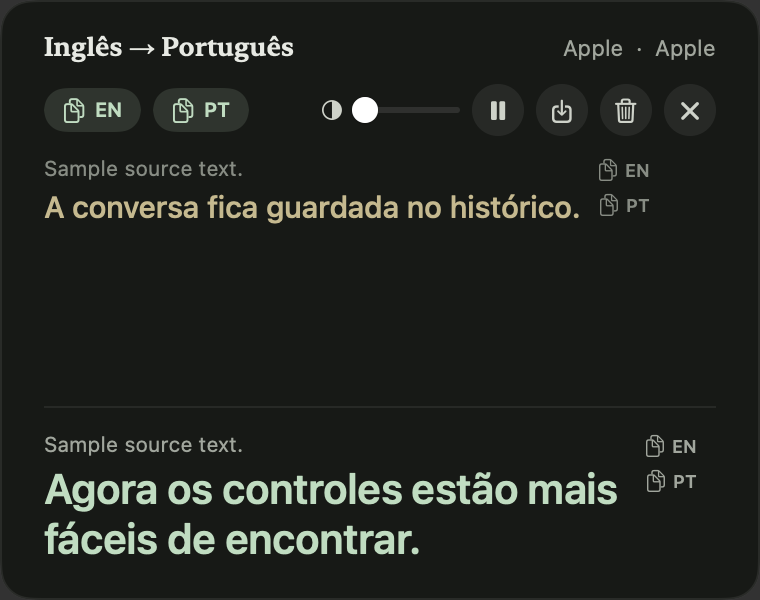
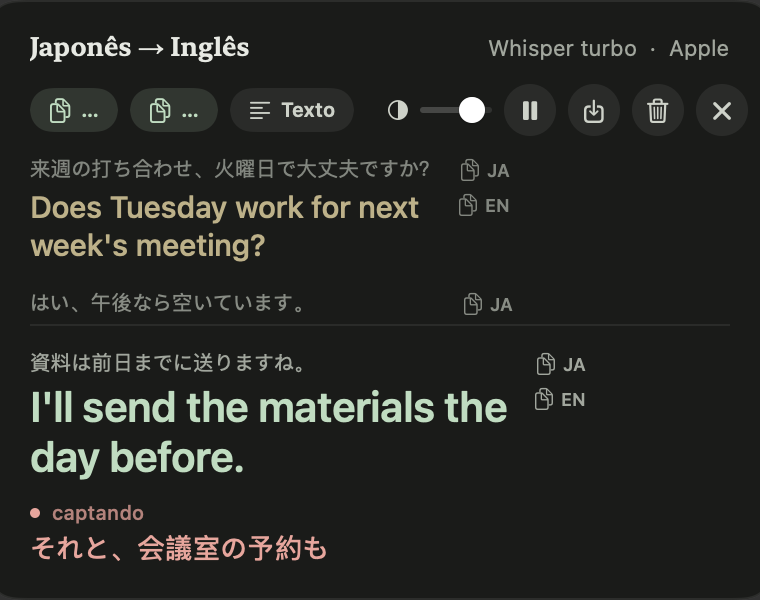
docs: README de divulgação, prints reais e skill do Claude Code
Prints saem do próprio app com conteúdo realista: painel ao vivo,
modo texto, menu e a janela de legendas num vídeo de demonstração
próprio (--segurar no autoteste da janela). Imagens novas: "Just the
words" e o diagrama com .txt.

A skill lingosync-transcrever-audio passa a morar no repositório,
achando o projeto pelo próprio caminho, com Whisper por padrão.

diff --git a/Sources/TradutorApp/LayoutPreview.swift b/Sources/TradutorApp/LayoutPreview.swift
@@ -9,6 +9,12 @@ enum LayoutPreview {
         let folder = URL(fileURLWithPath: "/tmp/tradutor-layout", isDirectory: true)
         try? FileManager.default.createDirectory(at: folder, withIntermediateDirectories: true)
         let pipeline = Pipeline()
+        // O motor de tradução do Pipeline é preferência gravada: a do
+        // usuário volta no fim, antes do `exit`.
+        let motorDoUsuario = pipeline.translationEngine
+        pipeline.translationEngine = .apple
+        pipeline.sourceLanguage = .japanese
+        pipeline.targetLanguage = .english
         let model = SubtitleStudioModel()
         model.sourceLanguage = .portuguese
         model.targetLanguage = .english
@@ -70,9 +76,15 @@ enum LayoutPreview {
                          "studio-expanded-\(dark ? "dark" : "light")",
                          width: 1080, height: 700, dark: dark)
         }
-        for text in ["A conversa fica guardada no histórico.", "Agora os controles estão mais fáceis de encontrar."] {
-            pipeline.subtitles.commit(SubtitleBlock(source: "Sample source text.", translated: text))
+        // Uma reunião de verdade, para o print servir de divulgação.
+        for (source, text) in [
+            ("来週の打ち合わせ、火曜日で大丈夫ですか？", "Does Tuesday work for next week's meeting?"),
+            ("はい、午後なら空いています。", "Yes, I'm free in the afternoon."),
+            ("資料は前日までに送りますね。", "I'll send the materials the day before."),
+        ] {
+            pipeline.subtitles.commit(SubtitleBlock(source: source, translated: text))
         }
+        pipeline.subtitles.setPartial("それと、会議室の予約も")
         // Preferências do painel num domínio à parte: teste não escreve no
         // do usuário.
         let painel = UserDefaults(suiteName: "tradutor-layout-preview")!
@@ -81,12 +93,27 @@ enum LayoutPreview {
             await render(OverlayView(pipeline: pipeline, onClose: {}).defaultAppStorage(painel),
                          "live-\(Int(width))", width: width, height: 300, dark: true)
         }
-        pipeline.subtitles.setPartial("e isto ainda está sendo captado")
+        // Texto corrido: um ditado em inglês, só transcrevendo, com uma
+        // pausa longa que abre parágrafo.
+        pipeline.translationEngine = .transcriptionOnly
+        pipeline.sourceLanguage = .english
+        pipeline.subtitles.clear()
+        let inicio = Date()
+        for (offset, text) in [
+            (0.0, "Okay, quick recap of today's call."),
+            (3.0, "We agreed to ship the beta on Friday."),
+            (7.0, "Marina will handle the release notes, and I'll update the onboarding screens."),
+            (25.0, "Next week we'll review the feedback from the first users."),
+        ] {
+            pipeline.subtitles.commit(SubtitleBlock(
+                source: text, translated: text, at: inicio.addingTimeInterval(offset)))
+        }
+        pipeline.subtitles.setPartial("and decide what goes into version two")
         painel.set(true, forKey: "painelEmTextoCorrido")
-        painel.set(0.5, forKey: "opacidadeDoFundoDoPainel")
         await render(OverlayView(pipeline: pipeline, onClose: {}).defaultAppStorage(painel),
                      "live-texto-620", width: 620, height: 300, dark: true)
         painel.removePersistentDomain(forName: "tradutor-layout-preview")
+        pipeline.translationEngine = motorDoUsuario
         model.stop()
         try? report.write(to: folder.appendingPathComponent("layout.txt"), atomically: true, encoding: .utf8)
         print(report)

diff --git a/Sources/TradutorApp/main.swift b/Sources/TradutorApp/main.swift
@@ -1177,6 +1177,23 @@ final class AppDelegate: NSObject, NSApplicationDelegate, NSWindowDelegate {
 
             write(String(format: "geracao em %.1fs", model.elapsed))
             write("legendas: \(model.cues.count)")
+
+            // `--segurar <s> [legenda]`: para a janela numa legenda logo
+            // depois da geração, para um print de fora (`screencapture -l`),
+            // que pega o quadro do vídeo — o `cacheDisplay` do fim do teste
+            // não desenha a camada do player, e lá a janela já passou por
+            // importações e regerações.
+            if let flag = CommandLine.arguments.firstIndex(of: "--segurar"),
+               CommandLine.arguments.count > flag + 1,
+               let segundos = Double(CommandLine.arguments[flag + 1]) {
+                let pedida = CommandLine.arguments.count > flag + 2
+                    ? Int(CommandLine.arguments[flag + 2]) : nil
+                model.jump(to: min(pedida ?? model.cues.count / 2, max(model.cues.count - 1, 0)))
+                if model.isPlaying { model.togglePlay() }
+                window.makeKeyAndOrderFront(nil)
+                write("segurando a janela \(window.windowNumber) por \(Int(segundos)) s")
+                try? await Task.sleep(for: .seconds(segundos))
+            }
             expect(!model.cues.isEmpty, "a geracao produz legendas")
             expect(viuEspera, "a interface anuncia a espera pela resposta do tradutor")
             expect(legendasNaEspera > 0,

diff --git a/README.md b/README.md
@@ -4,17 +4,22 @@
 
 # LingoSync
 
-**Real-time translation and subtitles for macOS. Private, on-device.**
+**Understand any conversation on your Mac — live, subtitled, or as plain text.**
 
-Captures the audio of any app or your microphone, transcribes it and translates
-it while people speak — no API key, no account, no cloud.
+LingoSync listens to any app or your microphone, transcribes what is said and
+translates it while people speak. It subtitles whole videos, and hands you the
+clean text of any recording. All on-device: no API key, no account, no cloud.
 
 ![macOS 15+](https://img.shields.io/badge/macOS-15%2B-000000?logo=apple&logoColor=white)
 ![Apple Silicon](https://img.shields.io/badge/Apple_Silicon-M1%E2%80%93M5-333333)
 ![Swift](https://img.shields.io/badge/Swift-6-F05138?logo=swift&logoColor=white)
 ![No paid API](https://img.shields.io/badge/no_paid_API-3E7A52)
+![Free](https://img.shields.io/badge/price-free-3E7A52)
 
-[**Download the latest release**](https://github.com/almeidasrenato/LingoSync/releases/latest)
+### [⬇ Download LingoSync for macOS](https://github.com/almeidasrenato/LingoSync/releases/latest)
+
+**Live translation** &nbsp;·&nbsp; **Subtitles for any video** &nbsp;·&nbsp;
+**Just the text** &nbsp;·&nbsp; **Private by design**
 
 </div>
 
@@ -25,70 +30,112 @@ it while people speak — no API key, no account, no cloud.
 
 ---
 
-## What it does
+## Made for
 
-### Listen and translate live &nbsp;·&nbsp; <kbd>⌥</kbd><kbd>⌘</kbd><kbd>T</kbd>
+- **Calls and meetings in another language** — a floating panel translates the
+  other side as they talk, over Zoom, Meet, Teams, a browser tab or any app.
+- **Watching videos, anime and lectures** — generate subtitles for a file you
+  already have, in your language, and watch them side by side.
+- **Getting the words out of audio** — voice memos, interviews, podcasts,
+  dictation: one click gives you clean, copyable text.
 
-<img src="docs/ao-vivo-estreito.png" width="330" align="right" alt="The live panel at its narrow width">
+## Listen and translate live &nbsp;·&nbsp; <kbd>⌥</kbd><kbd>⌘</kbd><kbd>T</kbd>
+
+<img src="docs/ao-vivo.png" width="620" alt="The live panel translating a Japanese meeting into English">
 
 Pick where the sound comes from — one app, all system audio, or the
-microphone — and a floating panel shows three zones:
+microphone — and a floating panel keeps up with the conversation:
 
-- **coral**, the raw partial from the recognizer, still changing;
+- **coral**, what is being heard right now, still settling;
 - **sage**, the sentence just confirmed and translated;
-- **yellow**, the session history.
+- **yellow**, everything said so far, original above the translation.
+
+It floats over full-screen video, follows you across desktops and never steals
+focus. Drag it by the header, fade its background until the video shows
+through — the text stays sharp — and copy the whole session in either language
+with one click.
 
 **Audio is never cut mid-word.** The running segment is re-recognized in full
 every 0.6 s, and only the prefix that two passes agree on reaches the screen.
 Cutting split words, and neither half was recognizable ("reported" became
 "Reaper's" at the end of one chunk and "ported" at the start of the next).
 
-Pausing keeps the capture alive, the copy buttons take the whole session, and
-the export includes timestamps and the language pair. **Text** switches the
-panel from subtitles to one running, selectable transcript — for dictating or
-grabbing what someone said and pasting it elsewhere. The panel is draggable by
-its header, and the transparency control fades only the background, never the
-text.
+## Just the words
 
-<br clear="right">
+<img src="docs/promo/just-the-words.png" width="820" alt="The live panel in text mode next to an exported meeting.txt">
 
-### Subtitle any video
+Sometimes you do not want subtitles — you want the text. Flip the panel to
+**Text** and it becomes one running, selectable transcript: talk, then paste
+it into your notes, an email or a chat.
+
+<img src="docs/ao-vivo-texto.png" width="620" alt="Text mode: the session as running text, with the part still being heard in coral">
+
+For recordings, **Extract text (.txt)** in the menu turns any video or audio
+file into plain running text — no timecodes, filler words like "um" and "uh"
+removed, paragraphs where the speaker paused. Pick a translator and you get
+the translated text instead.
+
+## Subtitle any video
 
 <img src="docs/promo/video-subtitles.png" width="820" alt="Subtitle window with the cue list next to the video">
 
-Open a video, generate the `.srt`, and watch it with the subtitles alongside.
-Original and translation in the same list, cue-by-cue navigation, speaker
-identification with one color per speaker, separate import and export of each
-track, and re-translation without recognizing the audio again — seconds instead
-of minutes. It can also **read subtitles already burned into the video** (OCR)
-and translate them.
+Open a video and press **Generate**. LingoSync transcribes, translates and
+lines up every subtitle — 2 lines × 42 characters, 20 for Japanese and
+Chinese — and plays the video with the list alongside.
 
-Only need the words? **Extract text (.txt)** turns any video or audio file into
-plain running text, no timecodes — and the subtitle window exports `.txt` too.
+<img src="docs/legendas.png" width="820" alt="The real subtitle window: a Japanese conversation subtitled in English">
 
-<img src="docs/legendas.png" width="820" alt="The real subtitle window">
+- original and translation in the same list, with ← → to jump cue by cue;
+- **who is speaking**, with one color per speaker;
+- **re-translate** with another engine in seconds, without recognizing the
+  audio again;
+- import and export each track separately, as `.srt` or plain `.txt`;
+- **reads subtitles already burned into the video** (OCR) and translates them.
 
-### Everything from the menu bar
+## Everything from the menu bar
 
-<img src="docs/painel.png" width="360" align="right" alt="Menu bar panel">
+<img src="docs/painel.png" width="340" align="right" alt="Menu bar panel">
 
 The app lives in the menu bar, with no Dock icon. From there you choose the
-language pair, the recognition engine, the translator, the audio source, and
-open subtitle windows. When a newer release is out, an **Update** button
-appears there; it downloads the `.dmg` for you (the app never replaces itself,
-which would drop its screen-recording permission).
+language pair, the recognition engine, the translator and the audio source,
+and open subtitle windows.
 
 Every engine states its cost **before** you pick it: the panel warns that DeepL
 takes 2–3 s per chunk live, that a resident Hunyuan uses 4.5 GB, and that Qwen
 only works on video files. Your choice is never silently swapped.
 
+When a new version is out, an **Update** button appears at the top. It
+downloads the `.dmg` and opens it — the app never replaces itself, which would
+drop its screen-recording permission. The GitHub link lives in the footer.
+
 <br clear="right">
+
+## Let your AI assistant listen
+
+Claude and other coding agents cannot hear audio. LingoSync ships a
+[Claude Code](https://claude.com/claude-code) skill that transcribes any audio
+or video file locally, so you can say *"summarize this recording"* and it just
+works.
+
+```bash
+swift build -c release --product tradutor-verify
+ln -s "$PWD/integrations/claude-code/lingosync-transcrever-audio" ~/.claude/skills/
+```
+
+Under the hood it is one command, handy in any script:
+
+```bash
+integrations/claude-code/lingosync-transcrever-audio/scripts/lingosync-transcrever meeting.m4a en
+```
+
+It prints the running text to stdout (Whisper by default, any language), and
+nothing leaves your Mac.
 
 ---
 
 ## How it works
 
-<img src="docs/promo/how-it-works.png" width="820" alt="Capture, recognize on-device, translate and subtitle">
+<img src="docs/promo/how-it-works.png" width="820" alt="Capture, recognize on-device, translate into a live panel, .srt or .txt">
 
 ```
 live
@@ -105,7 +152,7 @@ video
        ──▶ who speaks, when requested ──▶ timed recognition
        ──▶ group into sentences ──▶ translate in batches
        ──▶ split into 2 lines × 42 characters (20 for CJK targets)
-       ──▶ .srt
+       ──▶ .srt, or running text ──▶ .txt
 ```
 
 ## Install
@@ -229,6 +276,10 @@ Qwen and Hunyuan run on-device, and after the first download loading uses no
 network. The DeepL, Google and Gemini translators **send text out** (never
 audio), which is why they are not the default and why the panel states the
 cost of each before you pick it.
+
+The only request the app makes on its own is a public check of the latest
+GitHub release when you open the menu (at most every 6 hours) — no account,
+no identifier, nothing about your Mac.
 
 ## Project structure
 

diff --git a/integrations/claude-code/lingosync-transcrever-audio/SKILL.md b/integrations/claude-code/lingosync-transcrever-audio/SKILL.md
@@ -1,0 +1,56 @@
+---
+name: lingosync-transcrever-audio
+description: LingoSync — transcribes audio or video files locally (no API, no network) with the LingoSync (Tradutor Instantâneo) engine, so Claude can read what is said in them. Use whenever the user sends or points to an audio/video file (.m4a, .mp3, .wav, .aac, .ogg, .flac, .mp4, .mov, .mkv, .webm, voice memo, recording, meeting, podcast, "áudio", "gravação", "vídeo") and wants it read, transcribed, summarized, translated, quoted or analyzed. Also use for "o que ele fala neste áudio", "transcreva", "ouça este arquivo".
+---
+
+# LingoSync: transcrever áudio e vídeo
+
+Claude não ouve áudio. Esta skill transforma a fala do arquivo em texto com o
+mesmo reconhecimento do app LingoSync (Tradutor Instantâneo), tudo local, e aí o texto é
+lido normalmente.
+
+## Comando
+
+```bash
+~/.claude/skills/lingosync-transcrever-audio/scripts/lingosync-transcrever "<arquivo>" [idioma] [motor] [--saida <arquivo.txt>]
+```
+
+- **stdout** é só o texto corrido (parágrafo novo a cada pausa de 10 s ou mais).
+  **stderr** tem o progresso e a última linha `N trechos, N caracteres, Ns`.
+- `idioma`: código de duas letras da fala — `pt` (padrão), `en`, `es`, `fr`,
+  `de`, `it`, `ja`, `ko`, `zh`, `nl`, `pl`, `ru`, `uk`, `ar`, `hi`, `tr`, `vi`, `th`.
+- `motor`: `whisper` (padrão) cobre todos os idiomas e é o que mais tolera
+  áudio difícil (~30× tempo real). `apple` é o mais rápido (~100×), mas só
+  cobre de, en, es, fr, it, ja, ko, pt, zh e depende do idioma instalado no
+  macOS — use quando a pressa pesar mais. `parakeet` é opção para idiomas
+  europeus.
+- Aceita vídeo e áudio de qualquer formato que o macOS abre; a faixa de áudio
+  é escolhida pelo idioma.
+- Sem pontuação de tempo. Hesitações (`まあ`, `えー`, "um", "uh") saem do texto.
+
+## Como usar
+
+1. **Descubra o idioma** pela conversa (o nome do arquivo, o que o usuário
+   disse). Sem pista, use `pt` — o usuário fala português.
+2. Rode o comando com `timeout` generoso: arquivos longos no Whisper levam
+   minutos (um vídeo de 9 min leva ~30 s no Whisper).
+3. **Confira o resultado.** Texto vazio, muito curto para a duração, ou em
+   outra língua/sem sentido quase sempre é idioma errado: rode de novo com o
+   idioma certo, ou com `apple` para comparar.
+4. Para texto longo, grave com `--saida` num arquivo do scratchpad e leia
+   dele, em vez de despejar tudo na conversa.
+5. Responda o que o usuário pediu (resumo, tradução, citação) a partir do
+   texto. Ao citar, lembre que é transcrição automática: nomes próprios podem
+   sair errados.
+
+## Se falhar
+
+- `tradutor-verify não compilado`: o script diz o comando. Compile uma vez na
+  raiz do repositório (`swift build -c release --product tradutor-verify`; com
+  as Command Line Tools do macOS 27, prefixe
+  `SDKROOT=/Library/Developer/CommandLineTools/SDKs/MacOSX26.5.sdk`).
+- Motor Apple recusando o idioma: o modelo daquele idioma não está instalado
+  no macOS — use `whisper`, ou peça ao usuário para instalá-lo pelo botão **+**
+  ao lado do idioma no app.
+- A primeira execução do Whisper baixa o modelo (~1,2 GB) para
+  `~/Library/Application Support/Tradutor/models/`; avise o usuário.

diff --git a/CLAUDE.md b/CLAUDE.md
@@ -129,6 +129,16 @@ transparência e modo texto a cada 0,5 s; quem arrasta é um script de fora com
 `CGEvent` (arrasto e controle de mouse só se provam com evento de verdade).
 Preferências num domínio à parte, posição não guardada.
 
+**As imagens do README** (`docs/`) saem do próprio app: `--selftest-layout`
+desenha painel, modo texto e menu com conteúdo realista (e devolve o tradutor
+gravado do usuário antes do `exit`); a janela de legendas é
+`--selftest-studio <video> ja en --motor apple --tradutor google --segurar 25 2`,
+que para na legenda 2 logo depois da geração para um `screencapture -l` —
+o `cacheDisplay` não desenha o quadro do vídeo. O vídeo de demonstração é
+nosso (cena gerada + diálogo do `say`), porque os de `Videos Exemplo/` são de
+terceiros. Com o Google, os dois checks de "espera pelo tradutor" reprovam
+num vídeo de 28 s: a resposta chega antes da amostragem.
+
 Bandeiras: `--motor <parakeet|whisper|qwen|qwenLarge>`, `--tradutor
 <apple|deepl|google|hunyuan>`, `--locutores`, `--cores`, `--modelo
 <clustering|sortformer>`, `--retraduzir <motor>`.
@@ -2431,7 +2441,7 @@ O item de menu não identifica locutor para `.txt` — seria um passo a mais
 para nada sair no arquivo.
 
 `tradutor-verify texto` é o mesmo caminho sem app, com o texto no stdout. A
-skill `~/.claude/skills/lingosync-transcrever-audio` do Claude Code chama esse comando (pelo `scripts/lingosync-transcrever`, que só repassa)
+skill `integrations/claude-code/lingosync-transcrever-audio` (ligada por symlink em `~/.claude/skills`) chama esse comando pelo `scripts/lingosync-transcrever`, que acha o repositório pelo próprio caminho e usa **Whisper e português** por padrão — o app continua na Apple
 quando alguém manda áudio ou vídeo para ler. 161 s de inglês: 1,2 s na Apple.
 
 ## Atualização pelo GitHub (30/09/2026)
